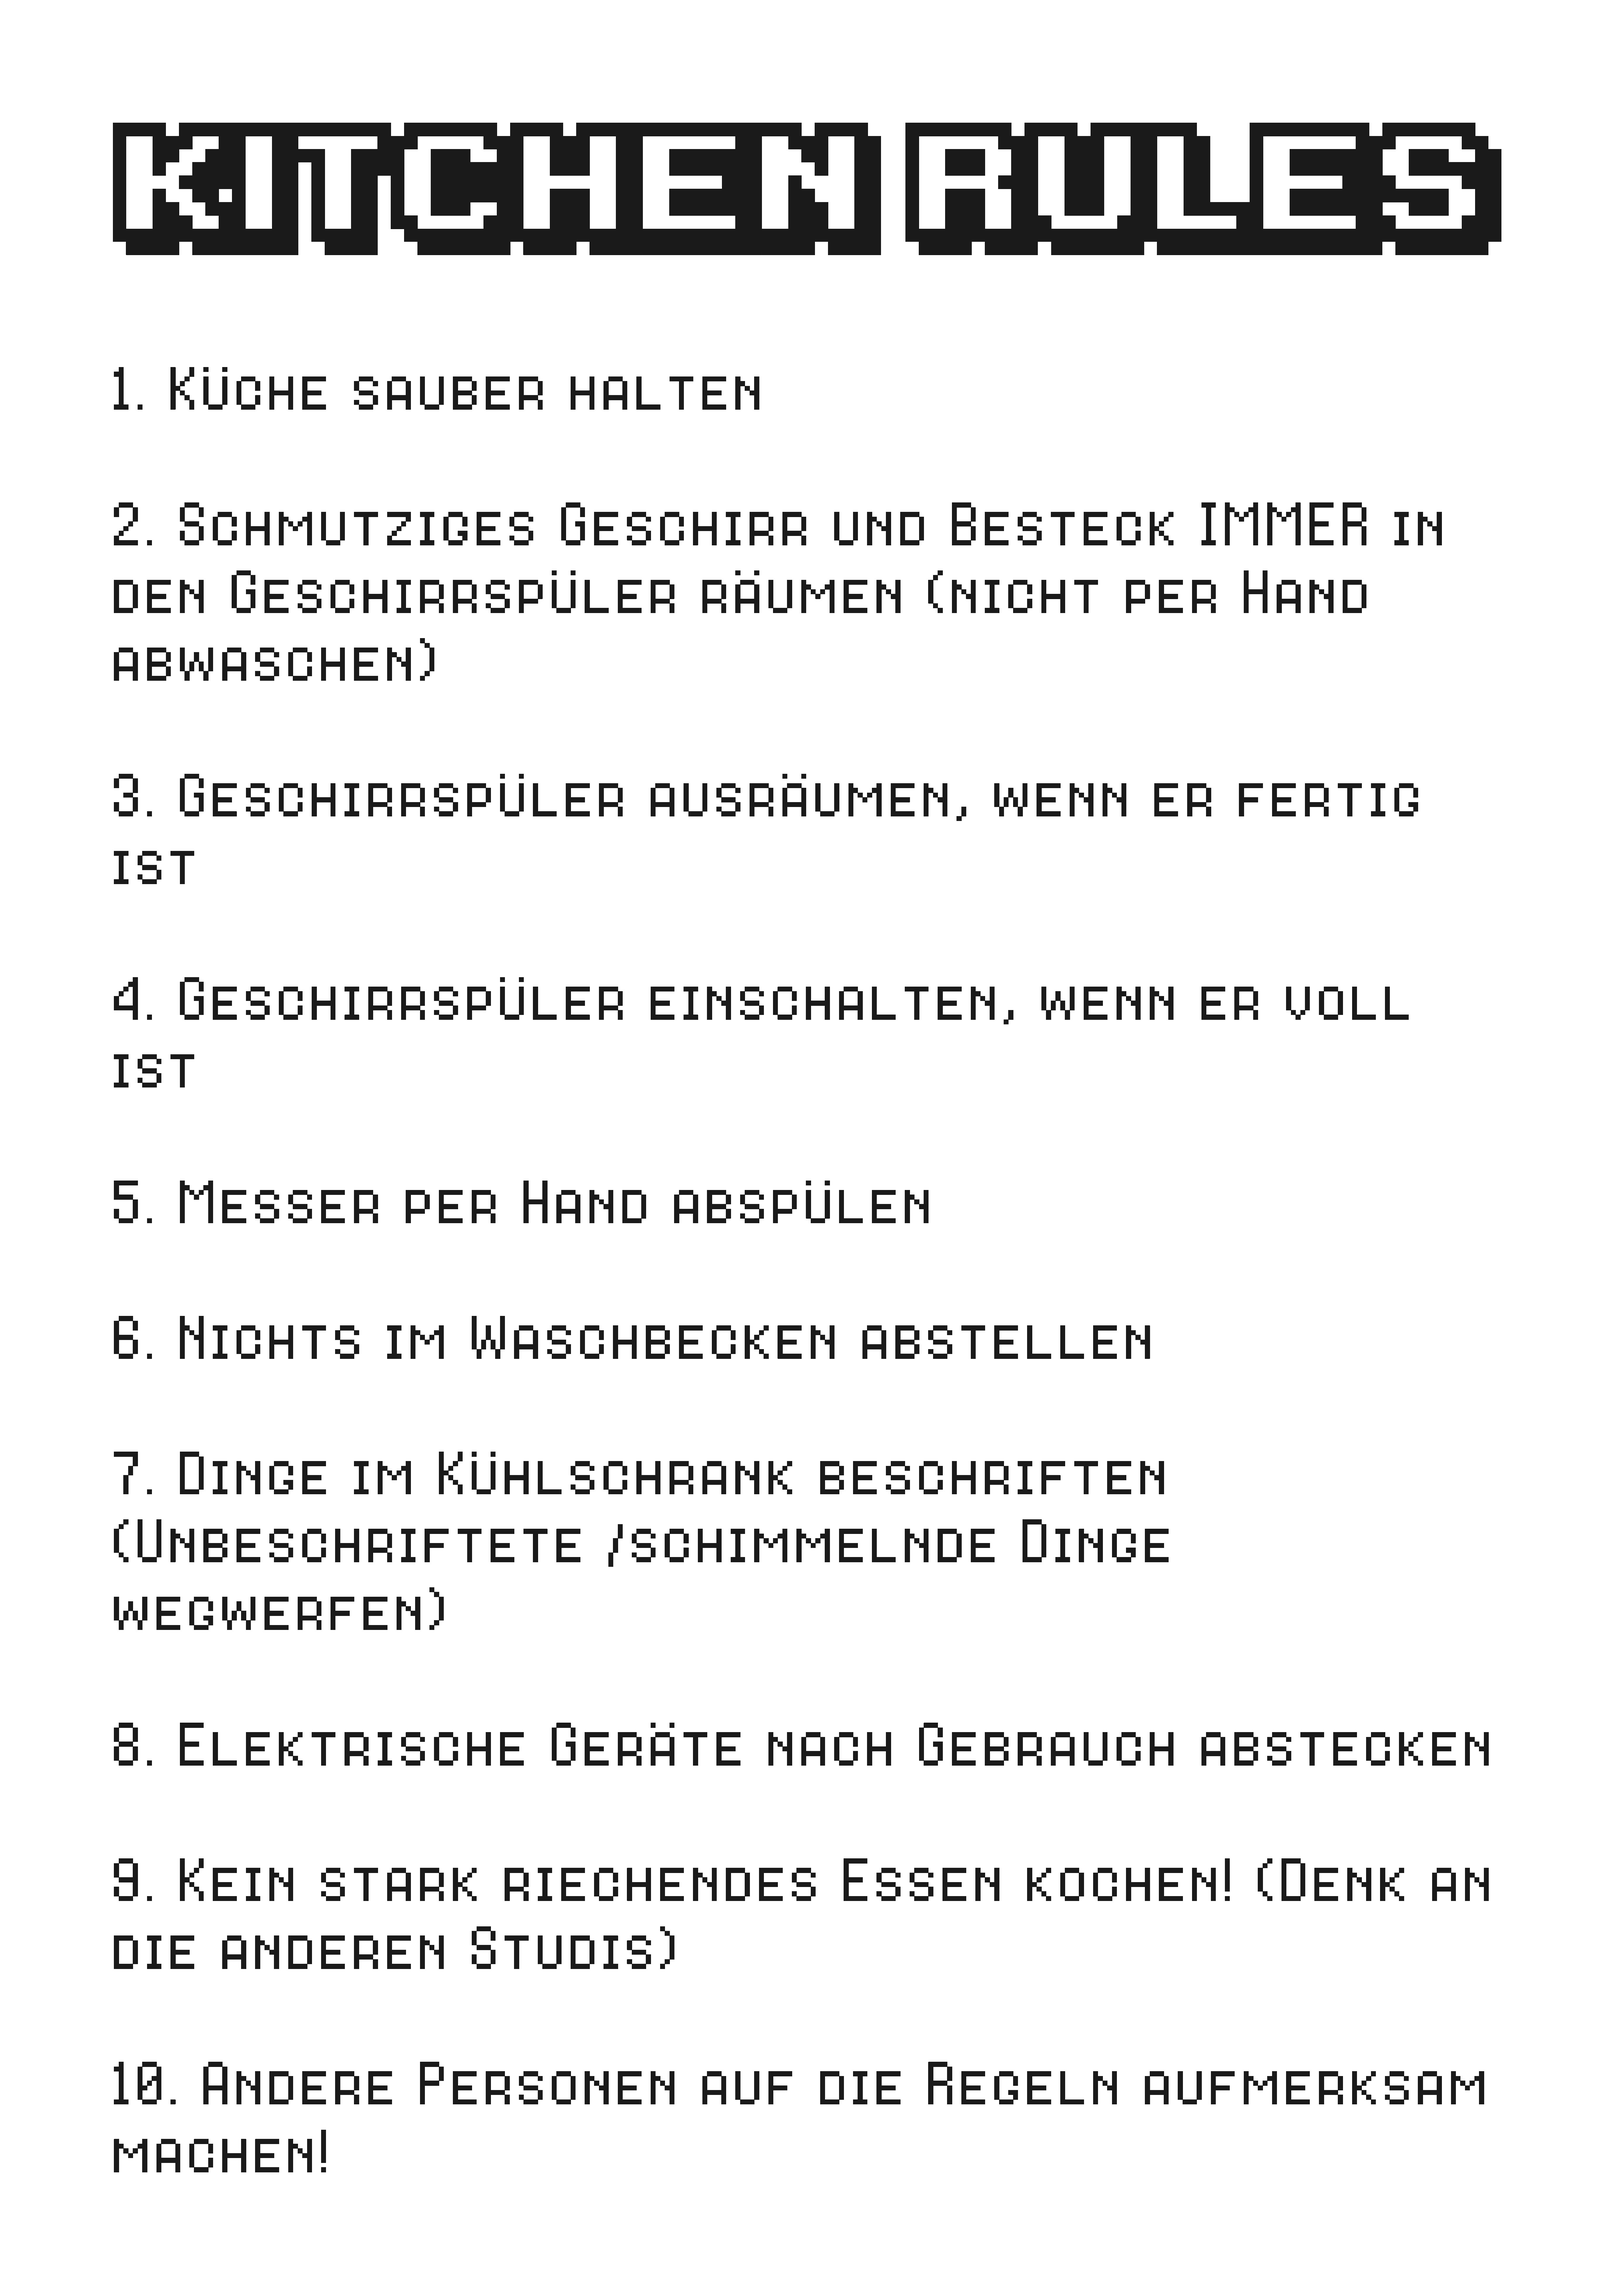
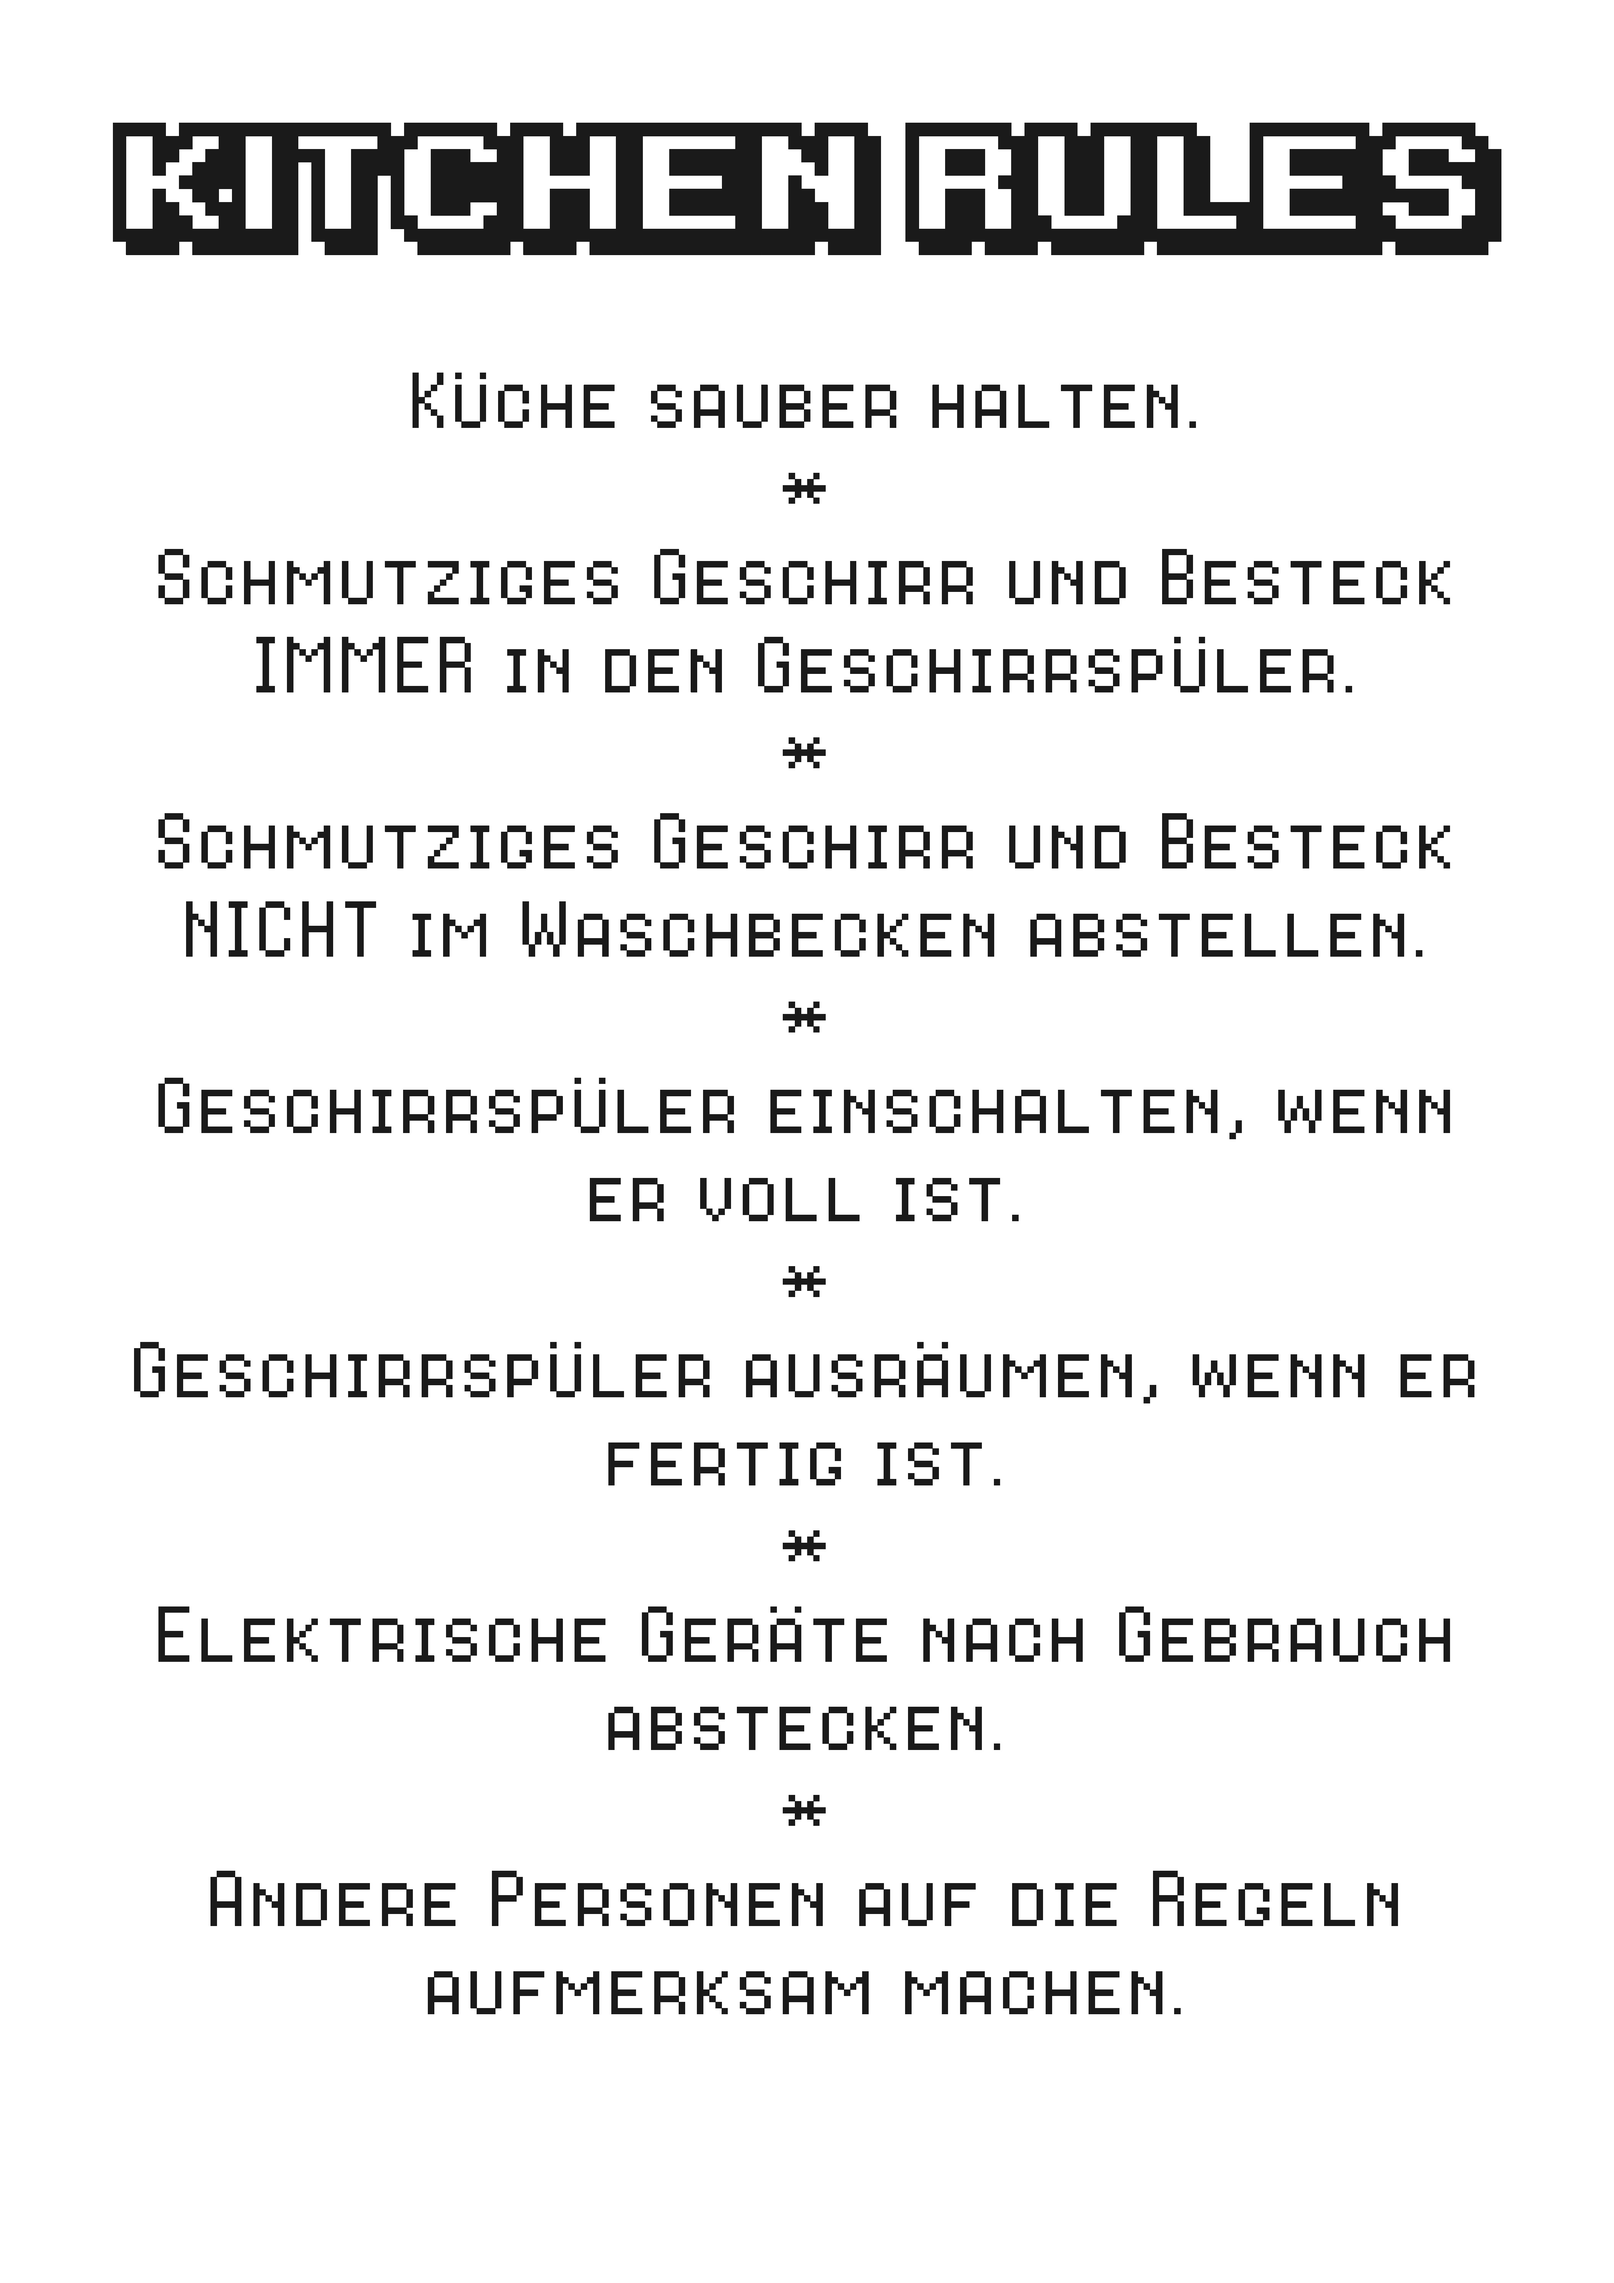
update

diff --git a/lernraum_regeln/README.md b/lernraum_regeln/README.md
@@ -1,0 +1,9 @@
+# Lernraum Regeln
+
+Main raw file: poster.svg
+Program: Inkscape
+Poster: poster.jpg
+
+Rules about the lernraum
+
+TODO: Add pixelart
